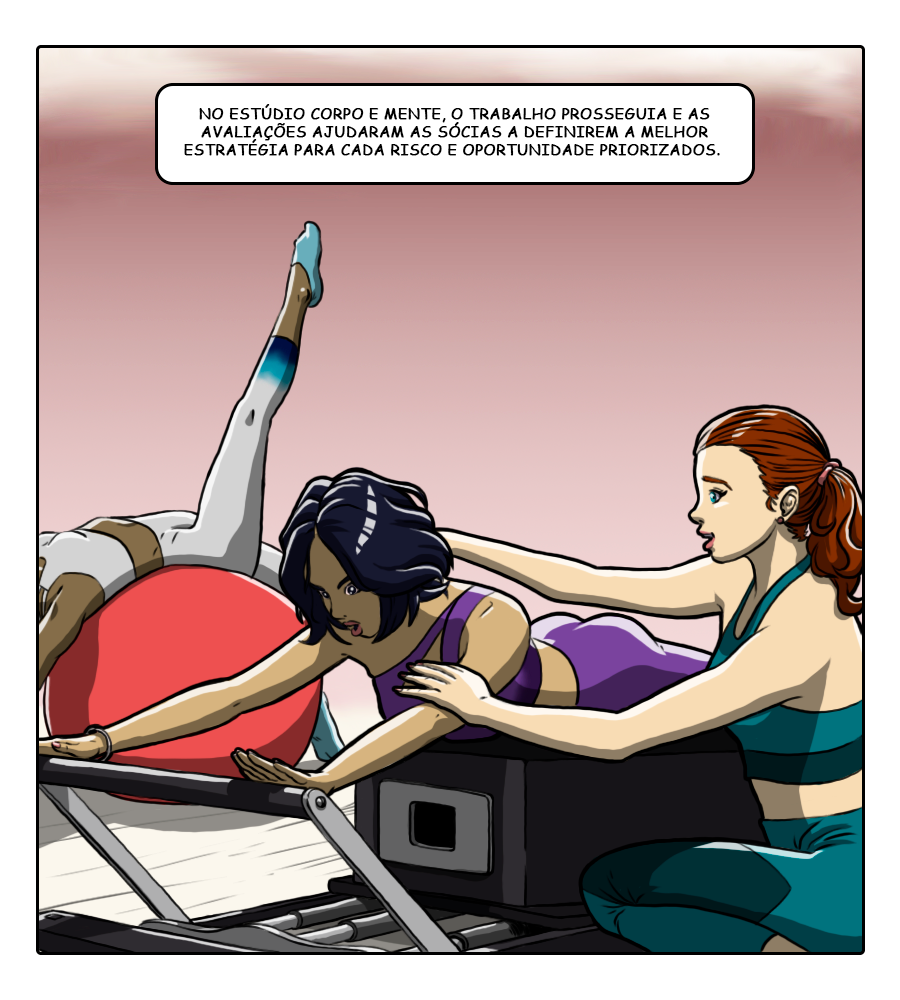
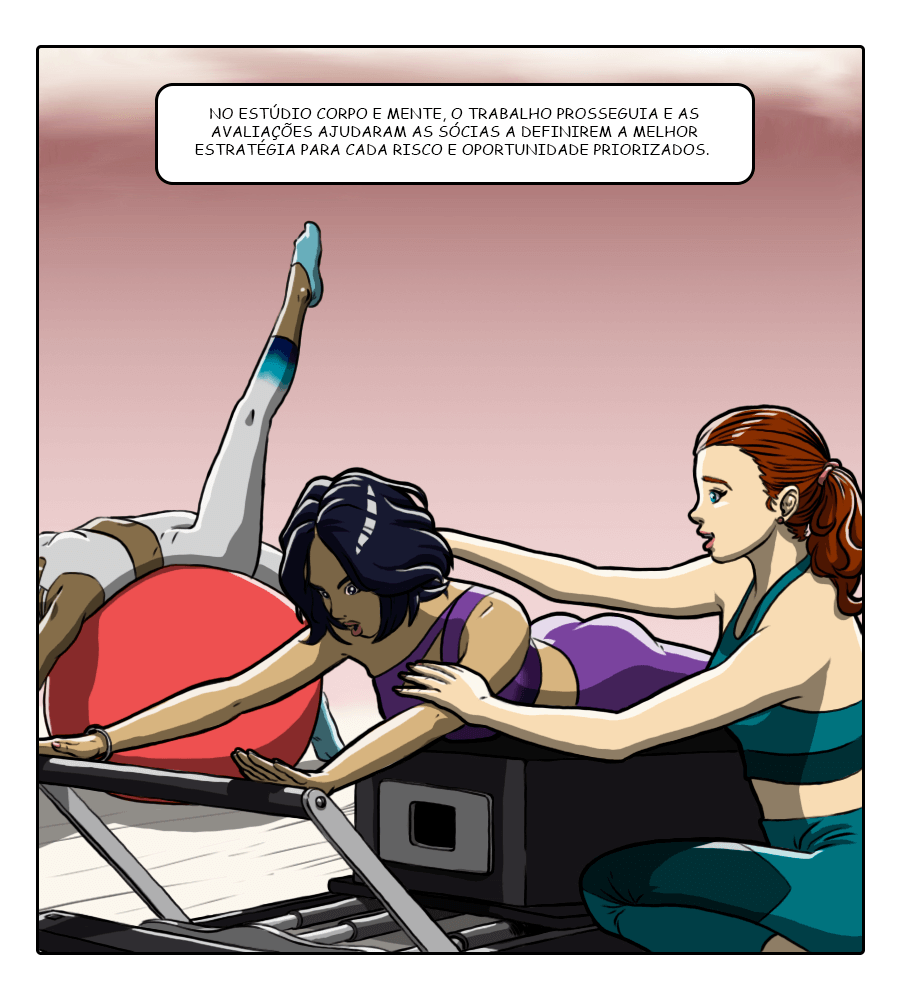
ajustes cliente

Changed region(s): [[0.2178, 0.093, 0.8089, 0.155]]

diff --git a/02_determinacao_riscos/index.html b/02_determinacao_riscos/index.html
@@ -94,12 +94,12 @@
                             sujeita.
                         </p>
                         <figure class="my-5 d-block mx-auto">
-                            <img src="img/storytelling/p1.1.jpg"
+                            <img src="img/storytelling/p1.1.png"
                                 class="img-fluid d-block mx-auto p-2 mb-3 d-none d-sm-none d-md-none d-lg-block print"
                                 alt="Imagem" style="max-width: 100%; height: auto;">
-                            <a href="img/storytelling/p1.1.jpg" target="_blank"
+                            <a href="img/storytelling/p1.1.png" target="_blank"
                                 class="img-zoom d-sm-block d-md-block d-lg-none no-print">
-                                <img src="img/storytelling/p1.1.jpg"
+                                <img src="img/storytelling/p1.1.png"
                                     class="img-fluid d-block mx-auto p-2 mb-3 d-sm-block d-md-block d-lg-none no-print"
                                     alt="Imagem" style="max-width: 100%; height: auto;">
                             </a>
@@ -351,12 +351,12 @@
                         </p>
                         <p>Revisite o caso do Estúdio Corpo e Mente para analisar a aplicação prática deste modelo.</p>
                         <figure class="my-5 d-block mx-auto">
-                            <img src="img/storytelling/p21.jpg"
+                            <img src="img/storytelling/p21.png"
                                 class="img-fluid d-block mx-auto p-2 mb-3 d-none d-sm-none d-md-none d-lg-block print"
                                 alt="Imagem" style="max-width: 100%; height: auto;">
-                            <a href="img/storytelling/p21.jpg" target="_blank"
+                            <a href="img/storytelling/p21.png" target="_blank"
                                 class="img-zoom d-sm-block d-md-block d-lg-none no-print">
-                                <img src="img/storytelling/p21.jpg"
+                                <img src="img/storytelling/p21.png"
                                     class="img-fluid d-block mx-auto p-2 mb-3 d-sm-block d-md-block d-lg-none no-print"
                                     alt="Imagem" style="max-width: 100%; height: auto;">
                             </a>
@@ -492,12 +492,12 @@
                             </div>
                         </div>
                         <figure class="my-5 d-block mx-auto">
-                            <img src="img/storytelling/p3.1.jpg"
+                            <img src="img/storytelling/p3.1.png"
                                 class="img-fluid d-block mx-auto p-2 mb-3 d-none d-sm-none d-md-none d-lg-block print"
                                 alt="Imagem" style="max-width: 100%; height: auto;">
-                            <a href="img/storytelling/p3.1.jpg" target="_blank"
+                            <a href="img/storytelling/p3.1.png" target="_blank"
                                 class="img-zoom d-sm-block d-md-block d-lg-none no-print">
-                                <img src="img/storytelling/p3.1.jpg"
+                                <img src="img/storytelling/p3.1.png"
                                     class="img-fluid d-block mx-auto p-2 mb-3 d-sm-block d-md-block d-lg-none no-print"
                                     alt="Imagem" style="max-width: 100%; height: auto;">
                             </a>
@@ -1324,12 +1324,12 @@
                             lista de riscos a serem trabalhados nas etapas seguintes.
                         </p>
                         <figure class="my-5 d-block mx-auto">
-                            <img src="img/storytelling/p4.1.jpg"
+                            <img src="img/storytelling/p4.1.png"
                                 class="img-fluid d-block mx-auto p-2 mb-3 d-none d-sm-none d-md-none d-lg-block print"
                                 alt="Imagem" style="max-width: 100%; height: auto;">
-                            <a href="img/storytelling/p4.1.jpg" target="_blank"
+                            <a href="img/storytelling/p4.1.png" target="_blank"
                                 class="img-zoom d-sm-block d-md-block d-lg-none no-print">
-                                <img src="img/storytelling/p4.1.jpg"
+                                <img src="img/storytelling/p4.1.png"
                                     class="img-fluid d-block mx-auto p-2 mb-3 d-sm-block d-md-block d-lg-none no-print"
                                     alt="Imagem" style="max-width: 100%; height: auto;">
                             </a>
@@ -1348,12 +1348,12 @@
                             resultados do estúdio.
                         </p>
                         <figure class="my-5 d-block mx-auto">
-                            <img src="img/storytelling/p5.2.jpg"
+                            <img src="img/storytelling/p5.2.png"
                                 class="img-fluid d-block mx-auto p-2 mb-3 d-none d-sm-none d-md-none d-lg-block print"
                                 alt="Imagem" style="max-width: 100%; height: auto;">
-                            <a href="img/storytelling/p5.2.jpg" target="_blank"
+                            <a href="img/storytelling/p5.2.png" target="_blank"
                                 class="img-zoom d-sm-block d-md-block d-lg-none no-print">
-                                <img src="img/storytelling/p5.2.jpg"
+                                <img src="img/storytelling/p5.2.png"
                                     class="img-fluid d-block mx-auto p-2 mb-3 d-sm-block d-md-block d-lg-none no-print"
                                     alt="Imagem" style="max-width: 100%; height: auto;">
                             </a>
@@ -1892,12 +1892,12 @@
                             </p>
                         </div>
                         <figure class="my-5 d-block mx-auto">
-                            <img src="img/storytelling/p6.1.jpg"
+                            <img src="img/storytelling/p6.1.png"
                                 class="img-fluid d-block mx-auto p-2 mb-3 d-none d-sm-none d-md-none d-lg-block print"
                                 alt="Imagem" style="max-width: 100%; height: auto;">
-                            <a href="img/storytelling/p6.1.jpg" target="_blank"
+                            <a href="img/storytelling/p6.1.png" target="_blank"
                                 class="img-zoom d-sm-block d-md-block d-lg-none no-print">
-                                <img src="img/storytelling/p6.1.jpg"
+                                <img src="img/storytelling/p6.1.png"
                                     class="img-fluid d-block mx-auto p-2 mb-3 d-sm-block d-md-block d-lg-none no-print"
                                     alt="Imagem" style="max-width: 100%; height: auto;">
                             </a>
@@ -2036,12 +2036,12 @@
                             Fonte: Senac EAD (2024)
                         </figcaption>
                         <figure class="my-5 d-block mx-auto">
-                            <img src="img/storytelling/p7.2.jpg"
+                            <img src="img/storytelling/p7.2.png"
                                 class="img-fluid d-block mx-auto p-2 mb-3 d-none d-sm-none d-md-none d-lg-block print"
                                 alt="Imagem" style="max-width: 100%; height: auto;">
-                            <a href="img/storytelling/p7.2.jpg" target="_blank"
+                            <a href="img/storytelling/p7.2.png" target="_blank"
                                 class="img-zoom d-sm-block d-md-block d-lg-none no-print">
-                                <img src="img/storytelling/p7.2.jpg"
+                                <img src="img/storytelling/p7.2.png"
                                     class="img-fluid d-block mx-auto p-2 mb-3 d-sm-block d-md-block d-lg-none no-print"
                                     alt="Imagem" style="max-width: 100%; height: auto;">
                             </a>
@@ -2559,12 +2559,12 @@
                             Fonte: Senac EAD (2024)
                         </figcaption>
                         <figure class="my-5 d-block mx-auto">
-                            <img src="img/storytelling/p9.2.jpg"
+                            <img src="img/storytelling/p9.2.png"
                                 class="img-fluid d-block mx-auto p-2 mb-3 d-none d-sm-none d-md-none d-lg-block print"
                                 alt="Imagem" style="max-width: 100%; height: auto;">
-                            <a href="img/storytelling/p9.2.jpg" target="_blank"
+                            <a href="img/storytelling/p9.2.png" target="_blank"
                                 class="img-zoom d-sm-block d-md-block d-lg-none no-print">
-                                <img src="img/storytelling/p9.2.jpg"
+                                <img src="img/storytelling/p9.2.png"
                                     class="img-fluid d-block mx-auto p-2 mb-3 d-sm-block d-md-block d-lg-none no-print"
                                     alt="Imagem" style="max-width: 100%; height: auto;">
                             </a>
@@ -2591,7 +2591,7 @@
                             natural que
                             aqueles que apresentam maior grau de exposição (maior nível de risco) sejam
                             priorizados em
-                            relação aos demais. Porém há outros critérios que podem complementar essa análise,
+                            relação aos demais. Porém, há outros critérios que podem complementar essa análise,
                             como, por
                             exemplo, a urgência – dada pela proximidade da materialização do risco ou da
                             oportunidade –
@@ -3011,12 +3011,12 @@
                             permaneçam eficazes (ABNT 2018, p. 15).
                         </p>
                         <figure class="my-5 d-block mx-auto">
-                            <img src="img/storytelling/p10.2.jpg"
+                            <img src="img/storytelling/p10.2.png"
                                 class="img-fluid d-block mx-auto p-2 mb-3 d-none d-sm-none d-md-none d-lg-block print"
                                 alt="Imagem" style="max-width: 100%; height: auto;">
-                            <a href="img/storytelling/p10.2.jpg" target="_blank"
+                            <a href="img/storytelling/p10.2.png" target="_blank"
                                 class="img-zoom d-sm-block d-md-block d-lg-none no-print">
-                                <img src="img/storytelling/p10.2.jpg"
+                                <img src="img/storytelling/p10.2.png"
                                     class="img-fluid d-block mx-auto p-2 mb-3 d-sm-block d-md-block d-lg-none no-print"
                                     alt="Imagem" style="max-width: 100%; height: auto;">
                             </a>
@@ -3039,8 +3039,7 @@
                                 </thead>
                                 <tbody class="white">
                                     <tr>
-                                        <td>Melhorar o processo de precificação dos serviços oferecido no
-                                            estúdio </td>
+                                        <td>Melhorar o processo de precificação dos serviços oferecidos no estúdio </td>
                                         <td>Para garantir a saúde financeira e sustentabilidade da empresa </td>
                                         <td>Contratar serviço de precificação nas entidades de apoio ao setor de
                                             serviços </td>
@@ -3077,12 +3076,12 @@
                             Fonte: Senac EAD (2024)
                         </figcaption>
                         <figure class="my-5 d-block mx-auto">
-                            <img src="img/storytelling/p11.4.jpg"
+                            <img src="img/storytelling/p11.4.png"
                                 class="img-fluid d-block mx-auto p-2 mb-3 d-none d-sm-none d-md-none d-lg-block print"
                                 alt="Imagem" style="max-width: 100%; height: auto;">
-                            <a href="img/storytelling/p11.4.jpg" target="_blank"
+                            <a href="img/storytelling/p11.4.png" target="_blank"
                                 class="img-zoom d-sm-block d-md-block d-lg-none no-print">
-                                <img src="img/storytelling/p11.4.jpg"
+                                <img src="img/storytelling/p11.4.png"
                                     class="img-fluid d-block mx-auto p-2 mb-3 d-sm-block d-md-block d-lg-none no-print"
                                     alt="Imagem" style="max-width: 100%; height: auto;">
                             </a>
@@ -3113,11 +3112,8 @@
                             adiciona
                             valor ao
                             negócio da empresa, ou seja, é apenas com a implementação de ações efetivas que, de
-                            fato,
-                            será
-                            gerada a proteção necessária contra as ameaças representadas pelos riscos e será
-                            aproveitadas as
-                            oportunidades de maximização dos objetivos.
+                            fato, será gerada a proteção necessária contra as ameaças representadas pelos riscos e serão
+                            aproveitadas as oportunidades de maximização dos objetivos.
                         </p>
                         <h4 class="text-white"> Monitoramento e análise crítica</h4>
                         <p>

diff --git a/index.html b/index.html
@@ -78,7 +78,8 @@
                           que deve ser aberto no print, por exemplo:
                           <a class="dropdown-item imprimir" href="#" data-conteudo="01_recursos_basicos" data-imgpath="img" data-startpoint="teste.html">Recursos básicos</a>
                       -->
-                    <li><a class="dropdown-item imprimir" href="#" data-conteudo="01_gestao_riscos">Gestão de riscos
+                    <li><a class="dropdown-item imprimir" href="#" data-conteudo="01_gestao_riscos">Gestão de risco
+                        conforme ISO 9001 e ISO 31000
                       </a></li>
                     <li role="separator" class="divider"></li>
                     <li>
@@ -128,7 +129,8 @@
 					    dentro de uma ul, sempre posicionados na lista-fazer inicialmente
 				     -->
             <li class="drag-item fazer" data-item="link1" data-bs-toggle="tooltip" data-placement="top">
-              <a href="01_gestao_riscos/index.html" target="_blank" class="link1"> Gestão de riscos</a>
+              <a href="01_gestao_riscos/index.html" target="_blank" class="link1">Gestão de risco conforme ISO 9001 e
+                ISO 31000</a>
               <button class="btPrint imprimir" title="Imprimir o conteúdo"
                 data-conteudo="01_gestao_riscos">Imprimir</button>
               <div class="dropdown dropdown-bubble">
@@ -243,9 +245,9 @@
 					    dentro de uma ul, sempre posicionados na lista-fazer inicialmente
 				     -->
             <li class="drag-item fazer" data-item="link3" data-bs-toggle="tooltip" data-placement="top">
-              <a href="03_tecnicas/index.html" target="_blank" class="link3"> Técnicas para identificação, compreensão e avaliação de riscos </a>
-              <button class="btPrint imprimir" title="Imprimir o conteúdo"
-                data-conteudo="03_tecnicas">Imprimir</button>
+              <a href="03_tecnicas/index.html" target="_blank" class="link3"> Técnicas para identificação, compreensão e
+                avaliação de riscos </a>
+              <button class="btPrint imprimir" title="Imprimir o conteúdo" data-conteudo="03_tecnicas">Imprimir</button>
               <div class="dropdown dropdown-bubble">
                 <a id="dLabel" data-bs-toggle="dropdown" data-bs-display="static" aria-haspopup="true"
                   aria-expanded="false">
@@ -295,11 +297,11 @@
           <h3 class="visible-lg visible-md">A fazer</h3>
 
           <ul class="drag-inner-list" id="10" data-index="lista-fazer"> -->
-            <!--
+    <!--
 						exemplo de conteúdo em uma semana, cada link de conteúdo é um li
 					    dentro de uma ul, sempre posicionados na lista-fazer inicialmente
 				     -->
-            <!-- <li class="drag-item fazer" data-item="link4" data-bs-toggle="tooltip" data-placement="top">
+    <!-- <li class="drag-item fazer" data-item="link4" data-bs-toggle="tooltip" data-placement="top">
               <a href="04_ferramentas_qualidade/index.html" target="_blank" class="link4">Ferramentas da qualidade</a>
               <button class="btPrint imprimir" title="Imprimir o conteúdo"
                 data-conteudo="04_ferramentas_qualidade">Imprimir</button>

diff --git a/03_tecnicas/index.html b/03_tecnicas/index.html
@@ -927,10 +927,9 @@
                     <div class="grafismo">
                         <div class="destaque borda-colorida icone observacao">
                             <p>
-                                Em caso de empate, solicite a opinião de todos e, em comum acordo o grupo, escolha a
-                                ação
-                                que será priorizada. Determine o responsável por manter atualizado o <i>status</i> da
-                                planilha.
+                                Em caso de empate, solicite a opinião de todos e, em comum acordo, o grupo escolhe a
+                                ação que será priorizada. Determine o responsável por manter atualizado o <i>status</i>
+                                da planilha. 
                             </p>
                         </div>
                     </div>

diff --git a/01_gestao_riscos/index.html b/01_gestao_riscos/index.html
@@ -868,7 +868,7 @@
                             a
                             liderança, o engajamento das pessoas, a abordagem de processo, a melhoria, a tomada de
                             decisão
-                            fundamentada e a gestão de relacionamentos. Alinhado ao princípio da abordagem de
+                            fundamentada e a gestão de relacionamentos. Alinhada ao princípio da abordagem de
                             processo,
                             a
                             norma emprega essa metodologia e incorpora, além do ciclo PDCA, o <i>risk-based
